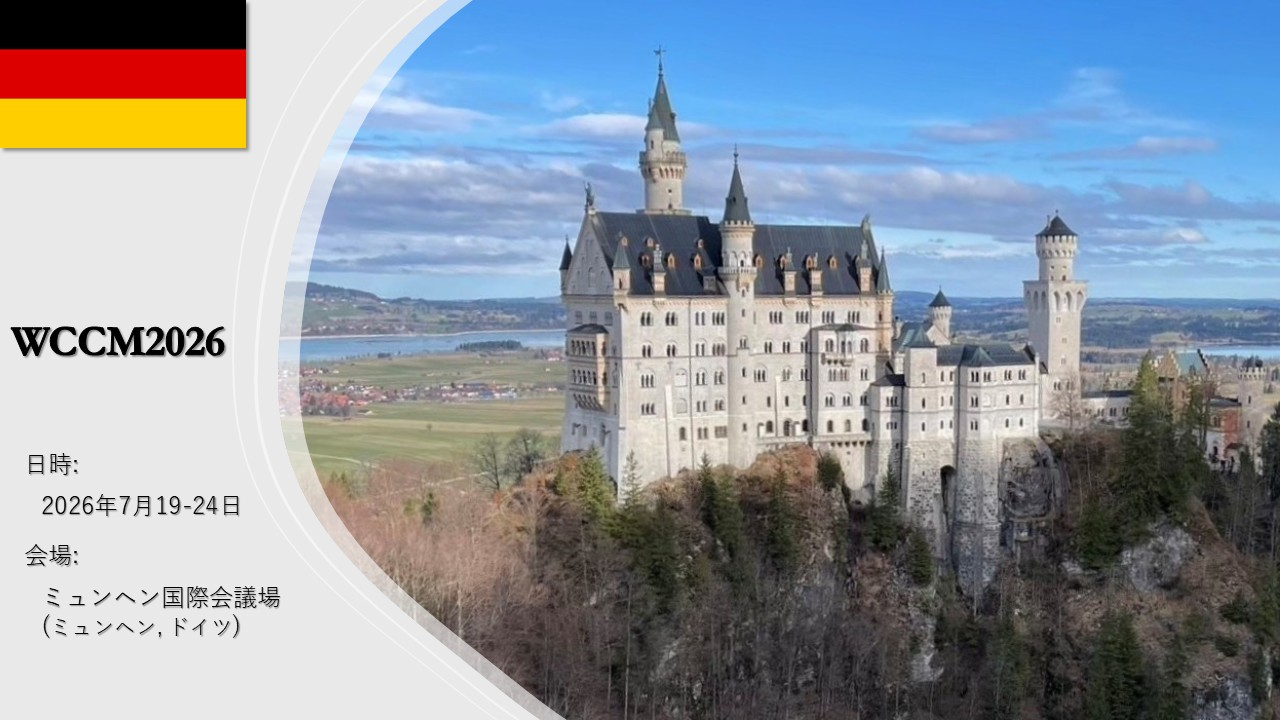
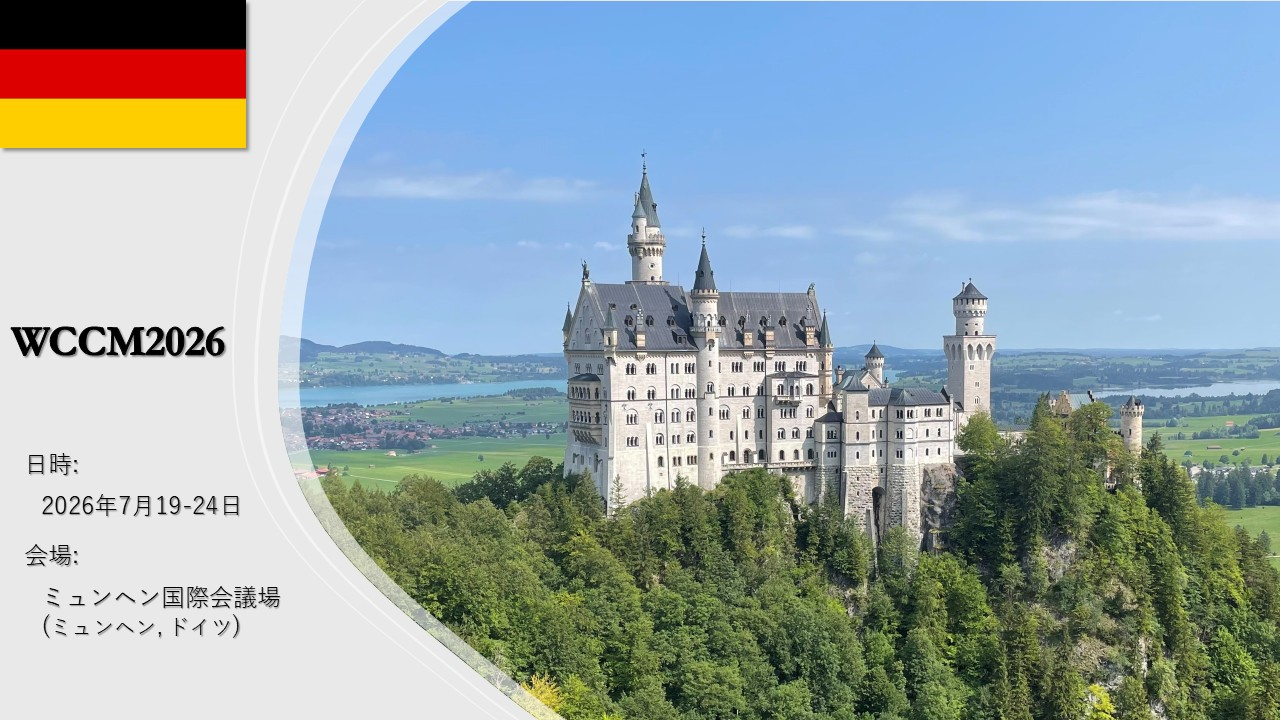
mod

diff --git a/content/ja/events/conf08/index.md b/content/ja/events/conf08/index.md
@@ -1,29 +1,28 @@
 ---
-title: "An enhanced Rousselier model to predict ductile fracture under a wide range of loading conditions"
-date: '2026-06-25T00:00:00Z'
+title: "延性破壊に対するGTNモデルとRousselierモデルの表現性能の比較"
+date: '2026-09-17T00:00:00Z'
 
 share: false
 
-event_name: 17th World Congress on Computational Mechanics, 10th European Congress on Computational Methods in Applied Science and Engineering (WCCM-ECCOMAS 2026)
-event_url: https://wccm-eccomas2026.org/
+event_name: 第39回計算力学講演会 (CMD2025)
+event_url: https://www.jsme.or.jp/conference/cmdconf26/
 
-location: International Congress Center Messe München
+location: 阪工業大学 梅田キャンパス（OIT梅田タワー）
 address:
-  postcode: 'Messe München GmbH, Messegelände, 81823 München, Germany'
+  postcode: '〒530-8568 大阪市北区茶屋町1-45'
 
 summary: #Discover how to create stunning, interactive presentations using simple Markdown — no PowerPoint, Keynote, or vendor lock-in required.
 abstract: |
   The objective of this study is to propose an enhanced Rousselier model for predicting ductile fracture in metallic materials under a wide range of loading conditions. As is well known, ductile fracture is widely classified into pressure-dominated and shear-dominated types by the different damage mechanisms. The pressure-dominated fracture is represented by the combination of Rousselier model as the growth of voids depending on hydrostatic stress and the conventional void nucleation criterion from the primary inclusions. On the other hand, the shear-dominated failure is realized by the Tresca yield criterion as the formation of the shear band depending on Lode angle and the additional criterion as the subsequent void nucleation from the secondary inclusions due to the strain localization. Throughout numerical examples in which several types of specimens are utilized for a wide range of loading conditions, the capability of the proposed model is demonstrated by comparison with the conventional Rousselier model.
 
 # Talk start and end times.
-event_start: '2026-07-23T15:00:00Z'
-event_end: '2026-07-23T15:15:00Z'
+event_start: '2026-09-14T15:00:00Z'
+event_end: '2026-09-16T15:00:00Z'
 event_all_day: false
 
 authors:
-  - me
-  - Yuichi Shintaku
-  - Kenjiro Terada
+  - me_ja
+  - 新宅 勇一
 
 #tags:
   #- Markdown

diff --git a/content/ja/events/conf09/index.md b/content/ja/events/conf09/index.md
@@ -1,29 +1,28 @@
 ---
-title: "An enhanced Rousselier model to predict ductile fracture under a wide range of loading conditions"
-date: '2026-06-25T00:00:00Z'
+title: "Rousselierモデルを用いた異なる応力状態における延性き裂の進展挙動の予測"
+date: '2026-09-26T00:00:00Z'
 
 share: false
 
-event_name: 17th World Congress on Computational Mechanics, 10th European Congress on Computational Methods in Applied Science and Engineering (WCCM-ECCOMAS 2026)
-event_url: https://wccm-eccomas2026.org/
+event_name: M&M2026 材料力学カンファレンス
+event_url: https://www.jsme.or.jp/event/26-16/
 
-location: International Congress Center Messe München
+location: 大阪大学 豊中キャンパス
 address:
-  postcode: 'Messe München GmbH, Messegelände, 81823 München, Germany'
+  postcode: '〒560-0043 大阪府豊中市待兼山町1−16'
 
 summary: #Discover how to create stunning, interactive presentations using simple Markdown — no PowerPoint, Keynote, or vendor lock-in required.
 abstract: |
   The objective of this study is to propose an enhanced Rousselier model for predicting ductile fracture in metallic materials under a wide range of loading conditions. As is well known, ductile fracture is widely classified into pressure-dominated and shear-dominated types by the different damage mechanisms. The pressure-dominated fracture is represented by the combination of Rousselier model as the growth of voids depending on hydrostatic stress and the conventional void nucleation criterion from the primary inclusions. On the other hand, the shear-dominated failure is realized by the Tresca yield criterion as the formation of the shear band depending on Lode angle and the additional criterion as the subsequent void nucleation from the secondary inclusions due to the strain localization. Throughout numerical examples in which several types of specimens are utilized for a wide range of loading conditions, the capability of the proposed model is demonstrated by comparison with the conventional Rousselier model.
 
 # Talk start and end times.
-event_start: '2026-07-23T15:00:00Z'
-event_end: '2026-07-23T15:15:00Z'
+event_start: '2026-09-23T15:00:00Z'
+event_end: '2026-09-25T15:00:00Z'
 event_all_day: false
 
 authors:
-  - me
-  - Yuichi Shintaku
-  - Kenjiro Terada
+  - me_ja
+  - 新宅 勇一
 
 #tags:
   #- Markdown

diff --git a/content/en/events/conf08/index.md b/content/en/events/conf08/index.md
@@ -1,29 +1,28 @@
 ---
-title: "An enhanced Rousselier model to predict ductile fracture under a wide range of loading conditions"
-date: '2026-06-25T00:00:00Z'
+title: "Comparison of GTN model and Rousselier model for representing ductile fracture"
+date: '2026-09-17T00:00:00Z'
 
 share: false
 
-event_name: 17th World Congress on Computational Mechanics, 10th European Congress on Computational Methods in Applied Science and Engineering (WCCM-ECCOMAS 2026)
-event_url: https://wccm-eccomas2026.org/
+event_name: 39th Conference of the Computational Mechanics Division (CMD)
+event_url: https://www.jsme.or.jp/conference/cmdconf26/
 
-location: International Congress Center Messe München
+location: Osaka Institute of Technology Umeda Campus (OIT Umeda Tower)
 address:
-  postcode: 'Messe München GmbH, Messegelände, 81823 München, Germany'
+  postcode: '1-45 Chaya-machi, Kita-ku, Osaka 530-8568'
 
 summary: #Discover how to create stunning, interactive presentations using simple Markdown — no PowerPoint, Keynote, or vendor lock-in required.
 abstract: |
   The objective of this study is to propose an enhanced Rousselier model for predicting ductile fracture in metallic materials under a wide range of loading conditions. As is well known, ductile fracture is widely classified into pressure-dominated and shear-dominated types by the different damage mechanisms. The pressure-dominated fracture is represented by the combination of Rousselier model as the growth of voids depending on hydrostatic stress and the conventional void nucleation criterion from the primary inclusions. On the other hand, the shear-dominated failure is realized by the Tresca yield criterion as the formation of the shear band depending on Lode angle and the additional criterion as the subsequent void nucleation from the secondary inclusions due to the strain localization. Throughout numerical examples in which several types of specimens are utilized for a wide range of loading conditions, the capability of the proposed model is demonstrated by comparison with the conventional Rousselier model.
 
 # Talk start and end times.
-event_start: '2026-07-23T15:00:00Z'
-event_end: '2026-07-23T15:15:00Z'
+event_start: '2026-09-14T15:00:00Z'
+event_end: '2026-09-14T15:00:00Z'
 event_all_day: false
 
 authors:
   - me
   - Yuichi Shintaku
-  - Kenjiro Terada
 
 #tags:
   #- Markdown

diff --git a/content/en/events/conf09/index.md b/content/en/events/conf09/index.md
@@ -1,29 +1,28 @@
 ---
-title: "An enhanced Rousselier model to predict ductile fracture under a wide range of loading conditions"
-date: '2026-06-25T00:00:00Z'
+title: "Prediction of ductile crack propagation under various stress states using Rousselier model"
+date: '2026-09-26T00:00:00Z'
 
 share: false
 
-event_name: 17th World Congress on Computational Mechanics, 10th European Congress on Computational Methods in Applied Science and Engineering (WCCM-ECCOMAS 2026)
-event_url: https://wccm-eccomas2026.org/
+event_name: M&M2026 conference on mechanics of materials
+event_url: https://www.jsme.or.jp/event/26-16/
 
-location: International Congress Center Messe München
+location: Osaka University, Toyonaka Campus
 address:
-  postcode: 'Messe München GmbH, Messegelände, 81823 München, Germany'
+  postcode: '1-16 Machikaneyama-cho, Toyonaka City, Osaka 560-0043'
 
 summary: #Discover how to create stunning, interactive presentations using simple Markdown — no PowerPoint, Keynote, or vendor lock-in required.
 abstract: |
   The objective of this study is to propose an enhanced Rousselier model for predicting ductile fracture in metallic materials under a wide range of loading conditions. As is well known, ductile fracture is widely classified into pressure-dominated and shear-dominated types by the different damage mechanisms. The pressure-dominated fracture is represented by the combination of Rousselier model as the growth of voids depending on hydrostatic stress and the conventional void nucleation criterion from the primary inclusions. On the other hand, the shear-dominated failure is realized by the Tresca yield criterion as the formation of the shear band depending on Lode angle and the additional criterion as the subsequent void nucleation from the secondary inclusions due to the strain localization. Throughout numerical examples in which several types of specimens are utilized for a wide range of loading conditions, the capability of the proposed model is demonstrated by comparison with the conventional Rousselier model.
 
 # Talk start and end times.
-event_start: '2026-07-23T15:00:00Z'
-event_end: '2026-07-23T15:15:00Z'
+event_start: '2026-09-23T15:00:00Z'
+event_end: '2026-09-25T15:00:00Z'
 event_all_day: false
 
 authors:
   - me
   - Yuichi Shintaku
-  - Kenjiro Terada
 
 #tags:
   #- Markdown

diff --git a/content/ja/events/conf07/index.md b/content/ja/events/conf07/index.md
@@ -1,10 +1,10 @@
 ---
 title: "An enhanced Rousselier model to predict ductile fracture under a wide range of loading conditions"
-date: '2026-07-25T00:00:00Z'
+date: '2026-06-25T00:00:00Z'
 
 share: false
 
-event_name: WCCM-ECCOMAS 2026
+event_name: 17th World Congress on Computational Mechanics, 10th European Congress on Computational Methods in Applied Science and Engineering (WCCM-ECCOMAS 2026)
 event_url: https://wccm-eccomas2026.org/
 
 location: International Congress Center Messe München
@@ -16,8 +16,8 @@ abstract: |
   The objective of this study is to propose an enhanced Rousselier model for predicting ductile fracture in metallic materials under a wide range of loading conditions. As is well known, ductile fracture is widely classified into pressure-dominated and shear-dominated types by the different damage mechanisms. The pressure-dominated fracture is represented by the combination of Rousselier model as the growth of voids depending on hydrostatic stress and the conventional void nucleation criterion from the primary inclusions. On the other hand, the shear-dominated failure is realized by the Tresca yield criterion as the formation of the shear band depending on Lode angle and the additional criterion as the subsequent void nucleation from the secondary inclusions due to the strain localization. Throughout numerical examples in which several types of specimens are utilized for a wide range of loading conditions, the capability of the proposed model is demonstrated by comparison with the conventional Rousselier model.
 
 # Talk start and end times.
-event_start: '2026-07-19T10:00:00Z'
-event_end: '2026-07-24T17:00:00Z'
+event_start: '2026-07-23T15:00:00Z'
+event_end: '2026-07-23T15:15:00Z'
 event_all_day: false
 
 authors:

diff --git a/content/ja/events/conf05/index.md b/content/ja/events/conf05/index.md
@@ -23,7 +23,7 @@ event_all_day: false
 authors:
   - me_ja
   - 新宅 勇一
-  - 寺田賢二郎
+  - 寺田 賢二郎
 
 #tags:
   #- Markdown

diff --git a/content/ja/events/conf06/index.md b/content/ja/events/conf06/index.md
@@ -25,7 +25,7 @@ event_all_day: false
 authors:
   - me_ja
   - 新宅 勇一
-  - 寺田賢二郎
+  - 寺田 賢二郎
 
 #tags:
   #- Markdown
